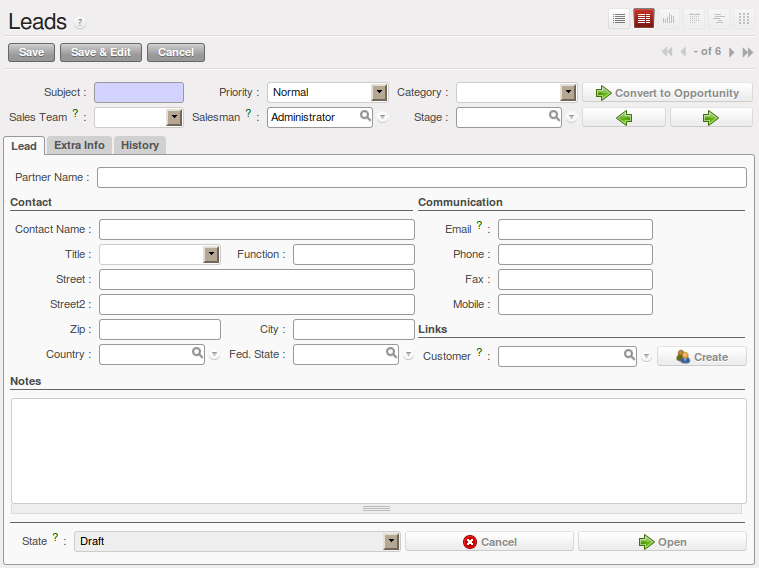
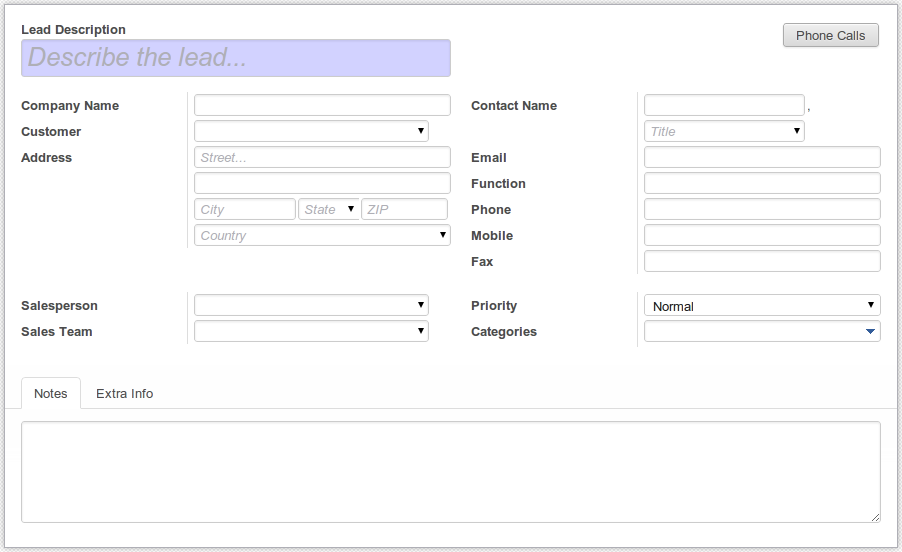
[IMP] Improve doc of lead as per version7.0

Changed region(s): [[0.0, 0.0, 1.0, 0.6467], [0.0, 0.6467, 1.0, 1.0]]

diff --git a/2/3_CRM_Contacts/leads.rst b/2/3_CRM_Contacts/leads.rst
@@ -31,9 +31,9 @@ So when would you create a lead in OpenERP, either manually or automatically? Th
 
 Employees in the marketing or presales department will usually work on leads. Once these leads will be converted into customers and/or sales opportunities, the sales department pays individual attention to each opportunity. Of course, before converting a lead into an opportunity, some qualification work has to be done.
 
-OpenERP allows you to easily configure the way your company qualifies leads. You can create your own stages through :menuselection:`Sales --> Configuration --> Leads & Opportunities --> Stages`. Use the sequence number to determine the order of the stages, i.e. 10 for First Call, 20 for Renewing Contact and so on. Of course, you can also drag & drop a stage to another place to automatically change the order of all the stages. A salesman can change the status of the lead according to the response from the prospect and enter the result of this contact in the lead form (e.g. in the ``Notes`` field).
+OpenERP allows you to easily configure the way your company qualifies leads. You can create your own stages through :menuselection:`Sales --> Configuration --> Leads & Opportunities --> Stages`. Use the sequence number to determine the order of the stages, i.e. 10 for First Call, 20 for Renewing Contact and so on. Of course, you can also drag & drop a stage to another place to automatically change the order of all the stages. A salesperson can change the status of the lead according to the response from the prospect and enter the result of this contact in the lead form (e.g. in the ``Notes`` field).
 
-From the :menuselection:`Sales --> Sales --> Leads` menu, you can qualify each individual lead through the ``Stage`` field that is found up to the right of the lead definition. To move your lead automatically to the next step from the list of leads, you can use the button that looks like a green, right arrow.
+From the :menuselection:`Sales --> Sales --> Leads` menu, you can qualify each individual lead through the button that is found up to the left of the lead definition. To move your lead automatically to the next step from the list of leads, you can click on the button.
 
 Leads can be assigned to a *Sales Team* for easy follow-up (see  :ref:`ch-team`). Each user can be added to a default sales team which can be specified in the `User Preferences`. When you define a tree structure for your sales teams, you can also escalate a lead to another sales team for further actions.
 
@@ -48,12 +48,6 @@ Leads can be assigned to a *Sales Team* for easy follow-up (see  :ref:`ch-team`)
 
 In the next sections we will explain in more detail some examples of what `Leads` in OpenERP can be used for.
 
-.. tip:: Leads Menu is not displayed
-
-        In  ``Simplified`` view, ``Leads`` will not be displayed. To see not also opportunities, but also leads, you should switch
-        to the ``Extended`` view. You can easily switch from `Simplified` to `Extended` view by changing your `User Preferences` through
-        the `Edit Preferences` button.
-
 Storing your Business Cards effectively
 ---------------------------------------
 
@@ -65,49 +59,33 @@ partner or a sales opportunity until you have qualified whether the lead is inte
 
       When a qualified lead requires further actions, you can turn the lead into a partner and, eventually, a sales opportunity.
 
-To make a new lead, go to the :menuselection:`Sales --> Sales --> Leads` menu and click the `New` button. In the **Lead** form that opens, you can enter the contact data of this new potential customer and add notes.
+To make a new lead, go to the :menuselection:`Sales --> Sales --> Leads` menu and click the `Create` button. In the **Lead** form that opens, you can enter the contact data of this new potential customer and add notes.
 
 .. figure:: images/crm_lead_new.png
-   :scale: 80
+   :scale: 75
    :align: center
 
    *Creating a New Lead*
 
 You can also set the status of a lead according to the qualification work that has been carried out:
 
-* ``Draft`` : the lead data have been entered, no work has been done yet and a salesperson has not
+* ``New`` : the lead data have been entered, no work has been done yet and a salesperson has not
   yet been assigned to the request,
 
-* ``Open``: the lead is being handled,
-
-* ``Closed``: the lead has been converted into a partner and/or a sales opportunity,
-
-* ``Pending``: the lead is waiting for a response from the potential customer,
+* ``Opportunity``: the lead has been converted into a partner and/or a sales opportunity,
 
 * ``Escalate``: the lead is escalated to the upper sales team in the tree structure for further actions, 
 
 * ``Cancelled``: the lead has been cancelled because the salesperson has decided that it is not worth
   following up.
 
-A lead status can easily be changed, even from list view (the standard view when you start the **Leads** program). Simply click the green arrows to change the status of a lead.
+On the :guilabel:`Extra` tab in the **Leads** form, you find information about the campaign, the channel, and so on.
 
-On the :guilabel:`Extra` tab in the **Leads** form, you find statistics about days to open and close and more information about the campaign, the channel, and so on.
-
-.. figure:: images/crm_lead_extra.jpeg
-   :scale: 80
+.. figure:: images/crm_lead_extra.png
+   :scale: 75
    :align: center
 
    *Extra Tab*
-
-On the :guilabel:`Communication & History` tab in the **Leads** form, you can see a complete history of all actions regarding this lead. You can also add internal notes and change the status of a lead  while adding such a note. 
-Send an email directly from the lead simply by clicking the :guilabel:`Send New Email` button (to configure your email settings, please refer to chapter :ref:`ch-crm-fetchmail-install`.
-You can add attachments to internal notes and emails you send to the prospect. You can customize your message and have the status changed after an email has been sent; you could automatically have the lead set to **Pending**, because you require a response from the customer before further actions can be taken.
-
-.. figure:: images/crm_lead_comm.jpeg
-   :scale: 80
-   :align: center
-
-   *Communication & History Tab*
 
 Importing a Leads Database
 --------------------------
@@ -159,26 +137,21 @@ To help the users organize and handle leads efficiently, OpenERP provides severa
 
 Use the :menuselection:`Sales --> Sales --> Leads` view to organize your leads:
 
-* Display a list of all the leads (qualified, open, not open, ...) according to the sales team you are linked to,
 
-* Create a new lead by clicking `New`,
+* Display a list of all the leads (New, open, Unassigned Leads, ...) according to the sales team you are linked to,
 
-* Display Unassigned Leads, click the button next to the `Salesman` field, 
+* Display a list of New leads by clicking `New`,
 
-* Display a list of all your leads you still need to handle (your open and draft leads),
+* Display Unassigned Leads by clicking `Unassigned Leads`,
 
-* Display a list of all your leads that are waiting for a customer response (usually in `Pending` status). This enables you to check periodically on your work to do,
-
-* Display a list of all the leads assigned to different salespeople,
-
-* Use Extended Filters to display all the leads created today or during the last week, in a specific time period, and so on,
+* Display a list of all the leads assigned to different salespeople by clicking the Group by button `Salesperson`.
 
 * Quickly find leads not yet assigned to a Campaign, by clicking the Group by button and then Campaign.
 
 The sales manager can use this **Leads** view to easily keep track of what each salesperson is working on.
 
 .. figure:: images/crm_leads_list.png
-   :scale: 80
+   :scale: 60
    :align: center
 
    *List of Leads to be Handled*
@@ -188,7 +161,7 @@ Leads can also be prioritized. Salespeople can assign a priority to their lead, 
 Analysing Leads
 ---------------
 
-OpenERP also offers statistical reports to keep track of your Lead Management. The :menuselection:`Sales --> Reporting --> Leads Analysis` report allows you to check various leads-related elements. You can look at processing delays, number of responses given and emails sent (if you use the email gateway feature). Sort your leads analysis by different groups to get accurate, grained analysis.
+OpenERP also offers statistical reports to keep track of your Lead Management. The :menuselection:`Reporting --> Sales -->  Leads Analysis` report allows you to check various leads-related elements. You can look at processing delays, number of responses given and emails sent (if you use the email gateway feature). Sort your leads analysis by different groups to get accurate, grained analysis.
 
 These are some analysis possibilities of the **Leads Analysis** report.
 
@@ -196,21 +169,17 @@ These are some analysis possibilities of the **Leads Analysis** report.
 
 To analyse the leads by status, group the leads by qualification level (``Stage``) and status (``State``), this can also be done for individual months (first group by ``Month``).
 
-2. Leads by Origin
-
-Analyse leads according to their state (open, lost, won) and their stage (e.g. cold / hot or new / qualification / ... ) and find out how many leads belong to each state / stage.
-
-3. How effective are your Campaigns? 
+2. How effective are your Campaigns? 
 
 Group by Campaign to easily find the number of leads by campaign and the total number of leads. You can also select a specific campaign in your filter. 
 
-4. Leads by Priority.
+3. Leads by Priority.
 
 Group by Priority to see which leads are hot, warm or cold.
 
 
-.. figure:: images/crm_lead_analys.jpeg
-   :scale: 80
+.. figure:: images/crm_lead_analysis.png
+   :scale: 60
    :align: center
 
    *Leads Analysis*
